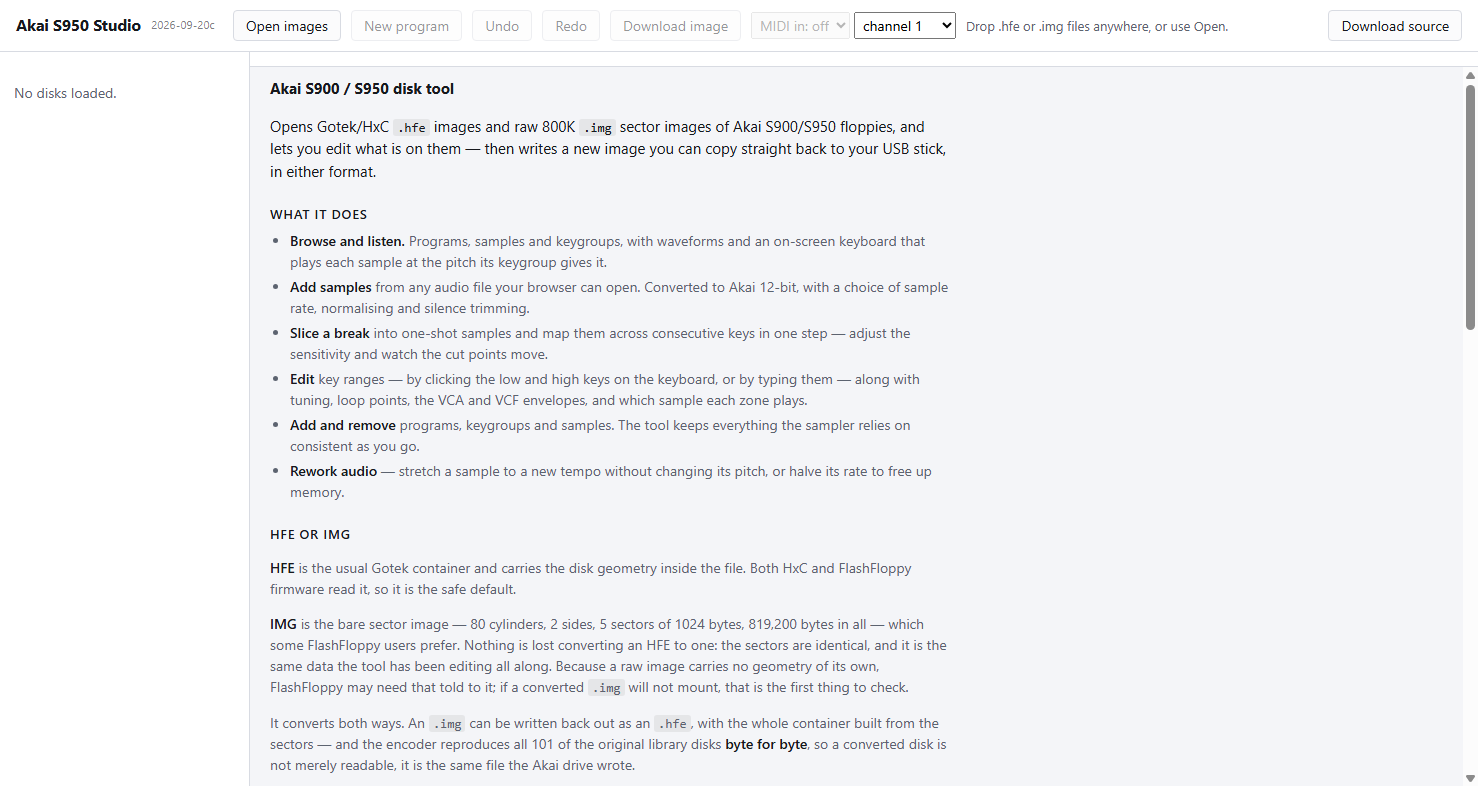
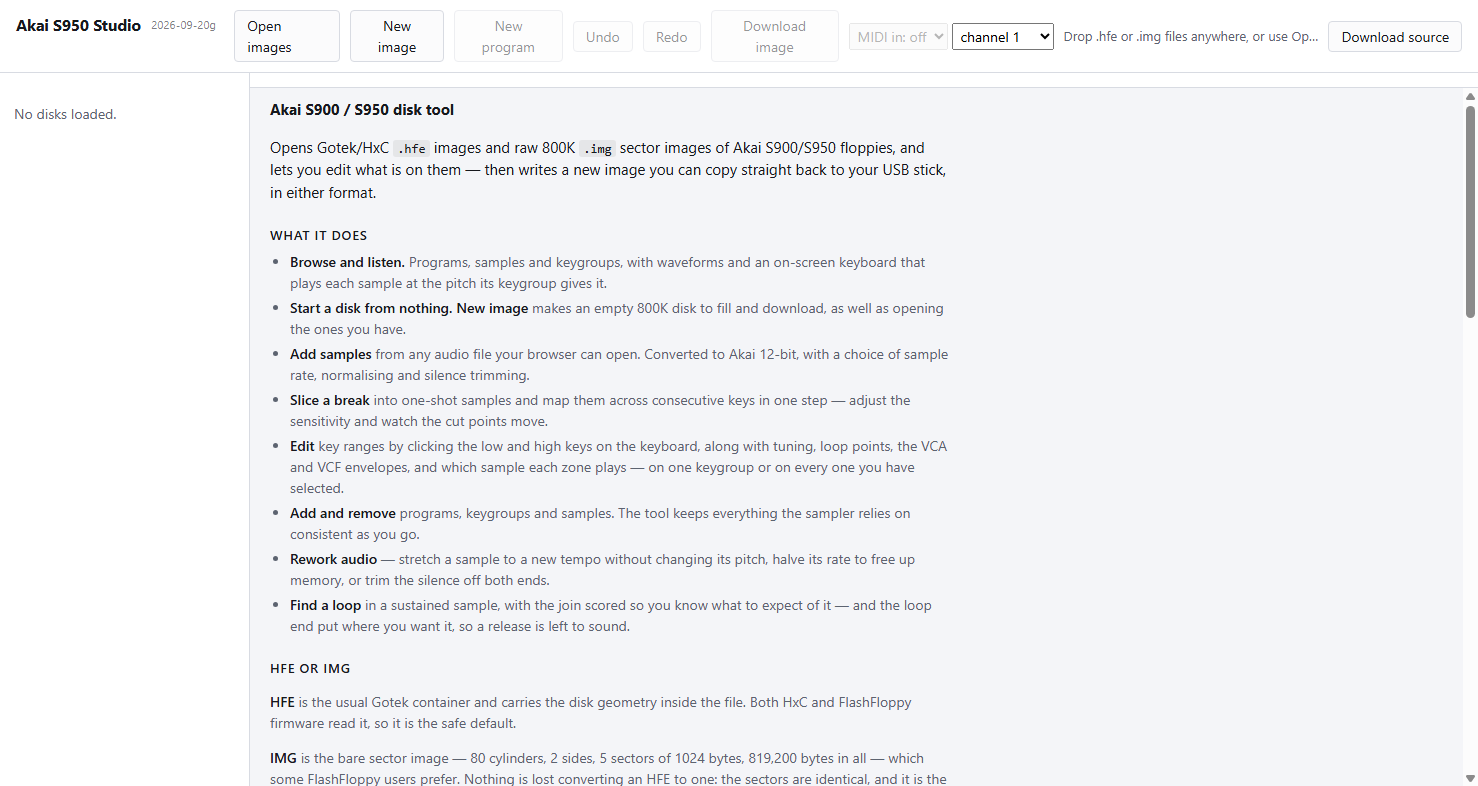
Say what the tool now does, on the page and in the docs
The page's own "what it does" list had not caught up: no mention of starting
a disk from nothing, of the trim reaching the end of a sample as well as the
front, or of the loop finder - and it still offered typing a key range, which
the boxes for went away when the keyboard took the job.

The README's trim section now carries what the corpus pass actually measured
rather than the older looped-samples-only figures: 81 of the 101 disks have
something to trim, 67 of those move the samples that follow them in RAM, and
all 81 come through with every chain and pointer intact. Seven, not nine, of
the disks it touches were already odd before the trim - which is the reason
the test compares before with after instead of asking for perfection.

The tutorial says plainly that there is no select-a-region-and-delete, since
that is what the user who asked for the tail trim went looking for first.

Screenshots retaken - the toolbar has a New image button now.

diff --git a/index.html b/index.html
@@ -66,17 +66,22 @@
       <ul>
         <li><b>Browse and listen.</b> Programs, samples and keygroups, with waveforms and
           an on-screen keyboard that plays each sample at the pitch its keygroup gives it.</li>
+        <li><b>Start a disk from nothing.</b> <b>New image</b> makes an empty 800K disk to
+          fill and download, as well as opening the ones you have.</li>
         <li><b>Add samples</b> from any audio file your browser can open. Converted to Akai
           12-bit, with a choice of sample rate, normalising and silence trimming.</li>
         <li><b>Slice a break</b> into one-shot samples and map them across consecutive keys
           in one step &mdash; adjust the sensitivity and watch the cut points move.</li>
-        <li><b>Edit</b> key ranges &mdash; by clicking the low and high keys on the keyboard,
-          or by typing them &mdash; along with tuning, loop points, the VCA and VCF envelopes,
-          and which sample each zone plays.</li>
+        <li><b>Edit</b> key ranges by clicking the low and high keys on the keyboard, along
+          with tuning, loop points, the VCA and VCF envelopes, and which sample each zone
+          plays &mdash; on one keygroup or on every one you have selected.</li>
         <li><b>Add and remove</b> programs, keygroups and samples. The tool keeps everything
           the sampler relies on consistent as you go.</li>
         <li><b>Rework audio</b> &mdash; stretch a sample to a new tempo without changing its
-          pitch, or halve its rate to free up memory.</li>
+          pitch, halve its rate to free up memory, or trim the silence off both ends.</li>
+        <li><b>Find a loop</b> in a sustained sample, with the join scored so you know what
+          to expect of it &mdash; and the loop end put where you want it, so a release is
+          left to sound.</li>
       </ul>
 
       <h3>HFE or IMG</h3>

diff --git a/test/trimtest.js b/test/trimtest.js
@@ -112,7 +112,7 @@ function zonesOf(disk) {
 /**
  * Everything about this disk that is not as the format says it should be.
  *
- * Returned as a list rather than a verdict, because nine of the library's own disks
+ * Returned as a list rather than a verdict, because seven of the library's own disks
  * already have a loop descriptor pointer that does not follow the one before it - see
  * fsck, which reports them as worth knowing rather than as damage. A test that asked
  * "is this disk perfect?" after an edit would blame the edit for them. The question is

diff --git a/akai.js b/akai.js
@@ -2027,7 +2027,7 @@ var Akai = (function () {
 
 // Shown in the page header. Bump it with any change to the write path, so a browser
 // running a cached copy is obvious at a glance rather than after a ruined disk.
-Akai.BUILD = '2026-09-20f';
+Akai.BUILD = '2026-09-20g';
 
 if (typeof module !== 'undefined' && module.exports) module.exports = Akai;
 

diff --git a/README.md b/README.md
@@ -389,10 +389,22 @@ otherwise.
 
 The end is the delicate one, because the tail of a sample is where a loop lives. A cut that
 reached into a loop would leave the sampler looping over audio that is no longer there, so
-the cut **stops at the loop end** and the confirmation says when it did. `test/trimtest.js`
-checks that on made-up samples where the answer is known, and then on every looped sample in
-the library: 60 of the 324 have silence to trim, 7 of those have the cut held back by their
-loop, and none is ever cut into.
+the cut **stops at the loop end** and the confirmation says when it did.
+
+Shortening a file also moves what comes after it. Samples sit back to back in the sampler’s
+RAM in directory order, and their loop descriptors sit in one table the same way, so a trim
+moves every sample after the one trimmed. The **zone pointers do not move**: those encode a
+sample’s position in directory order, and a trim changes no order at all.
+
+`test/trimtest.js` checks all of it — first on made-up samples where the answer is known to
+the word, then by trimming for real across the library. 81 of the 101 disks have something
+to trim, 67 of those move the samples that follow them in RAM, and all 81 come through with
+the RAM chain, the descriptor chain, the directory and every zone pointer intact, saved and
+reloaded.
+
+It compares before with after rather than asking whether a disk is perfect: seven of the
+disks it touches already have a loop descriptor pointer that does not follow the one before
+it, and a test that ignored that would blame the trim for them.
 
 **Programs** get their own panel: MIDI program, key to loudness, positional crossfade, and
 rename.

diff --git a/docs/tutorial.md b/docs/tutorial.md
@@ -135,6 +135,9 @@ silence.
 If the sample loops, the cut stops at the loop end rather than reaching into the loop, and
 the confirmation tells you when that happened.
 
+There is no way to select a region of the waveform and delete it — the trim is the whole of
+it. If you need to cut something out of the middle, that is not here yet.
+
 ## 7. Add your own sample
 
 **Add sample** reads any audio file your browser can decode — WAV, MP3, FLAC, AAC, Ogg — and
